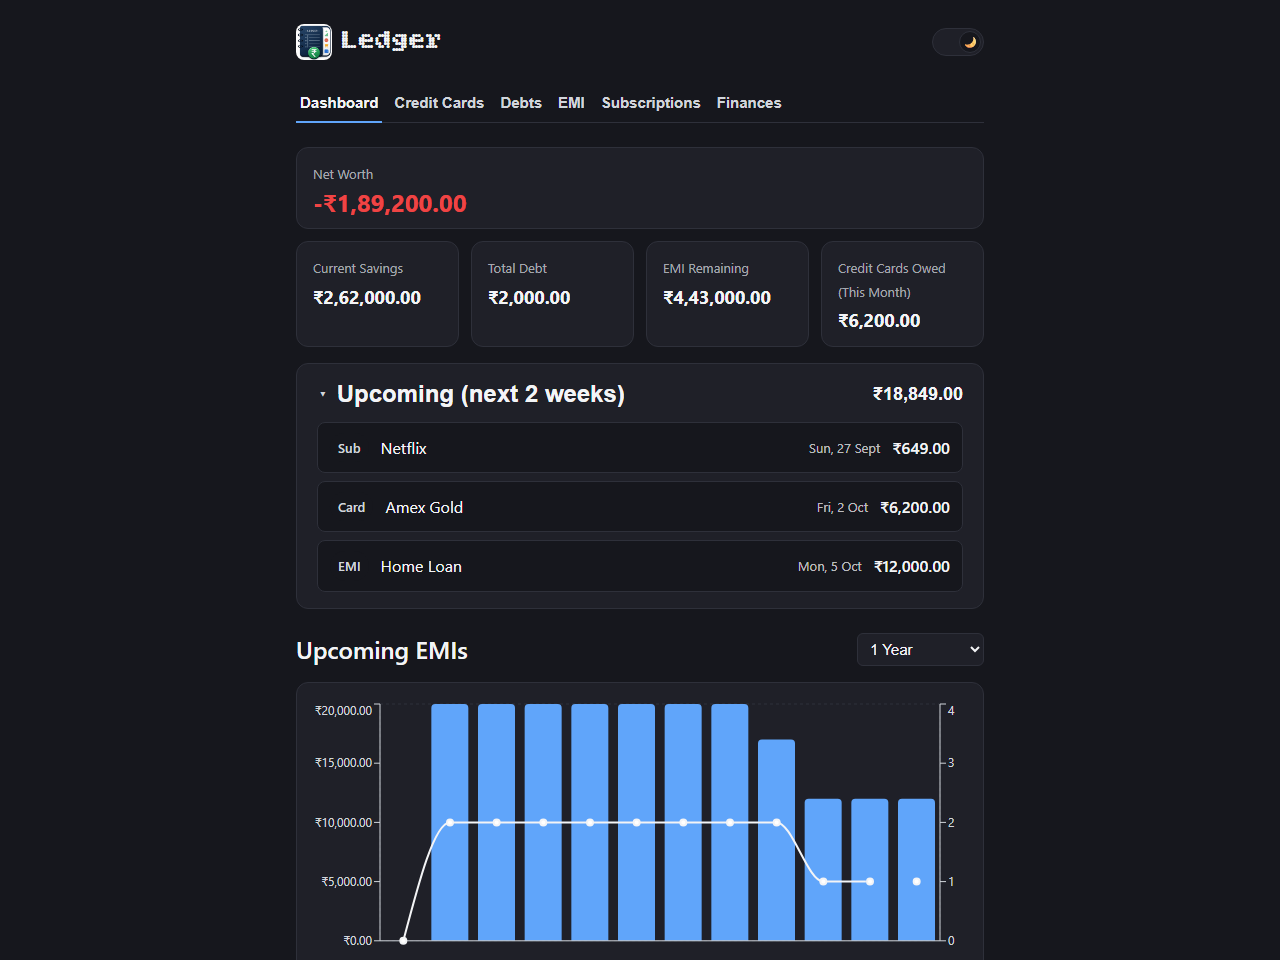
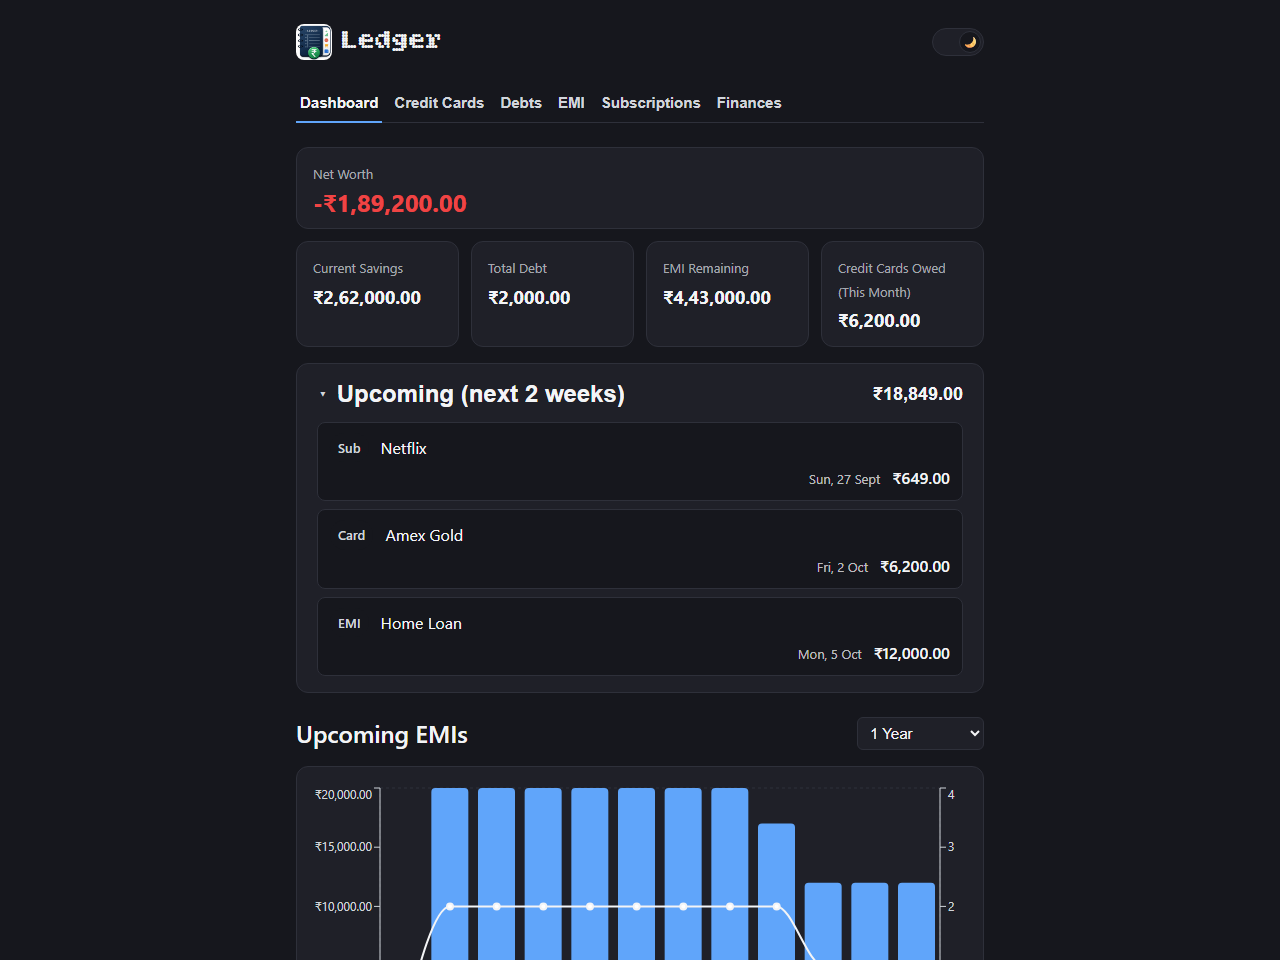
fix: stop truncating long names in the Dashboard's Upcoming list
A real subscription or card name long enough to clip
("Amazon Prime + Prime Vi…") gave no way to see the rest — not even
on hover, since the item's own title attribute said where clicking
would navigate, not the name itself. A hover tooltip wouldn't have
helped on a phone anyway, so the fix is to let the name wrap instead
of truncating.

Wrapping a single 4-item flex row (source chip, name, date, amount)
squeezed the name down to a sliver that wrapped one word per line on
a narrow phone — restructured into two rows instead: source + name on
top (with the width to wrap sensibly), date + amount right-aligned
below. Also folds the name itself into the title attribute, so a
desktop hover at least confirms it matches the wrapped text.

Regenerated the Dashboard screenshots for the layout change.

diff --git a/client/src/components/DashboardOverview.tsx b/client/src/components/DashboardOverview.tsx
@@ -115,7 +115,7 @@ export function DashboardOverview({ onSelectUpcomingItem }: Props) {
                         type="button"
                         className="upcoming-item"
                         onClick={() => onSelectUpcomingItem(item)}
-                        title={`Go to ${
+                        title={`${item.name} — go to ${
                           item.source === "EMI"
                             ? "EMI"
                             : item.source === "Subscription"
@@ -125,19 +125,23 @@ export function DashboardOverview({ onSelectUpcomingItem }: Props) {
                                 : "Credit Cards"
                         }`}
                       >
-                        <span className="upcoming-source">{SOURCE_LABEL[item.source]}</span>
-                        <span className="upcoming-name">{item.name}</span>
-                        {item.source === "Salary" ? (
-                          <>
-                            <span className="upcoming-date">Overdue</span>
-                            <span className="upcoming-amount">Not logged yet</span>
-                          </>
-                        ) : (
-                          <>
-                            <span className="upcoming-date">{formatDueDate(item.dueDate)}</span>
-                            <span className="upcoming-amount">{rupee.format(item.amount)}</span>
-                          </>
-                        )}
+                        <div className="upcoming-item-main">
+                          <span className="upcoming-source">{SOURCE_LABEL[item.source]}</span>
+                          <span className="upcoming-name">{item.name}</span>
+                        </div>
+                        <div className="upcoming-item-meta">
+                          {item.source === "Salary" ? (
+                            <>
+                              <span className="upcoming-date">Overdue</span>
+                              <span className="upcoming-amount">Not logged yet</span>
+                            </>
+                          ) : (
+                            <>
+                              <span className="upcoming-date">{formatDueDate(item.dueDate)}</span>
+                              <span className="upcoming-amount">{rupee.format(item.amount)}</span>
+                            </>
+                          )}
+                        </div>
                       </button>
                     </li>
                   ))}

diff --git a/client/src/components/DashboardOverview.css b/client/src/components/DashboardOverview.css
@@ -164,8 +164,8 @@
 
 .upcoming-item {
   display: flex;
-  align-items: center;
-  gap: 12px;
+  flex-direction: column;
+  gap: 4px;
   width: 100%;
   padding: 10px 12px;
   border: 1px solid var(--border);
@@ -176,6 +176,23 @@
   text-align: left;
   cursor: pointer;
   transition: border-color 0.15s ease;
+}
+
+/* Name on its own row (rather than sharing one with the date/amount) so a
+   long real-world subscription or card name has the item's full width to
+   wrap into, instead of being squeezed by three other flex items down to a
+   sliver that wraps one word per line. */
+.upcoming-item-main {
+  display: flex;
+  align-items: center;
+  gap: 12px;
+}
+
+.upcoming-item-meta {
+  display: flex;
+  align-items: baseline;
+  justify-content: flex-end;
+  gap: 12px;
 }
 
 .upcoming-item:hover,
@@ -195,10 +212,13 @@
 
 .upcoming-name {
   flex: 1;
+  /* Wraps rather than truncating with an ellipsis — a real subscription or
+     card name can be long enough to clip into something unrecognizable
+     ("Amazon Prime + Prime Vi…"), and a hover tooltip wouldn't help on a
+     phone anyway. min-width: 0 (not the flex-item default of auto) is what
+     lets this item actually shrink narrower than its own content and wrap,
+     rather than forcing the whole row wider instead. */
   min-width: 0;
-  overflow: hidden;
-  text-overflow: ellipsis;
-  white-space: nowrap;
 }
 
 .upcoming-date {
